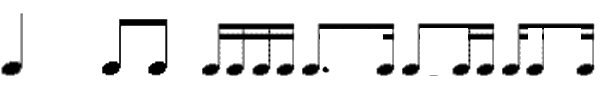
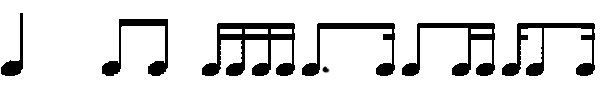
Memaso

diff --git a/proyecto/kuso.js b/proyecto/kuso.js
@@ -5,7 +5,7 @@ tempoToMs = function (t) {
 kuso = function(game){};
 kuso.prototype = {
   init:function() {
-    this.game.stage.backgroundColor = "#0000FF"; //set the background color
+    this.game.stage.backgroundColor = "#5555FF"; //set the background color
 
     this.metro_high = this.add.audio('metro_high');
     this.metro_low = this.add.audio('metro_low');
@@ -42,13 +42,13 @@ kuso.prototype = {
       if (this.count === 4) {
         this.count = 0;
       }
-      this.checkUntapped();
+      this.checkUntapped(1);
     },this);
     this.quarter.start();
 
     this.phrase = this.game.time.create(false);
     this.phrase.loop(tempoToMs(tempo) * 8, function(){
-      this.checkUntapped();
+      this.checkUntapped(0.2);
       this.createPattern();
     },this);
     this.phrase.start();
@@ -64,6 +64,11 @@ kuso.prototype = {
     this.back.events.onInputDown.add(function(){
       this.game.state.start('Tempo_select');
     }, this);
+//temporal lines
+    this.line1 = this.add.text(373, 190, 'l');
+    this.line1.scale.set(1, 3);
+    this.line2 = this.add.text(373, 290, 'l');
+    this.line2.scale.set(1, 3);
   },
 
   createPattern: function(){
@@ -100,7 +105,7 @@ kuso.prototype = {
     tapped = false;
     correct_note = false;
     this.current_pattern.forEach(function(item){
-      if (tap > item - tempoToMs(tempo) * 0.1 && tap < item + tempoToMs(tempo) * 0.2 && tapped === false) {
+      if (tap > item - tempoToMs(tempo) * 0.1 && tap < item + tempoToMs(tempo) * 0.25 && tapped === false) {
         this.tap_sound.play();
         correct_note = true;
         this.correct += 1;
@@ -121,7 +126,7 @@ kuso.prototype = {
     }, this);
     this.current_render = [];
     for (var i = 0; i < 8; i++) {
-      this.current_render[i] = this.add.image(100 + i * 75, 200, 'figures', this.current_render_pattern[i]);
+      this.current_render[i] = this.add.image(60 + i * 80, 200, 'figures', this.current_render_pattern[i]);
       this.current_render[i].scale.set(0.75);
     }
 
@@ -130,31 +135,21 @@ kuso.prototype = {
     }, this);
     this.next_render = [];
     for (var i = 0; i < 8; i++) {
-      this.next_render[i] = this.add.image(100 + i * 75, 300, 'figures', this.next_render_pattern[i]);
+      this.next_render[i] = this.add.image(60 + i * 80, 300, 'figures', this.next_render_pattern[i]);
       this.next_render[i].scale.set(0.75);
     }
   },
 
-  checkUntapped: function(){
+  checkUntapped: function(offset){
     t = tempoToMs(tempo) * 8 - this.phrase.duration;
     this.current_pattern.forEach(function(item){
-      if (t > item + tempoToMs(tempo) * 0.2) {
-        correct_note = true;
+      if (t > item && t < item + tempoToMs(tempo)) {
+//        this.current_pattern.splice(this.current_pattern.indexOf(item), 1);
+//        console.log(this.current_pattern);
         this.errors += 1;
-        this.current_pattern.splice(this.current_pattern.indexOf(item), 1);
       }
     },this);
     this.errors_text.text = 'Errors: ' + this.errors;    
     this.accurracy_text.text = 'Accurracy: ' + Math.round(this.correct / (this.correct + this.errors) * 100) + '%';
-  },
-
-  update: function(){
-
-  },
-  render: function(){
-/*    this.game.debug.text(this.quarter.duration, 30, 60);
-    this.game.debug.text(this.phrase.duration, 30, 90);
-    this.game.debug.text('Err' + this.errors, 30, 120);
-    this.game.debug.text('Corr' + this.correct, 30, 150);*/
   }
 };

diff --git a/proyecto/tempo_select.js b/proyecto/tempo_select.js
@@ -10,7 +10,7 @@ tempo_select.prototype = {
   },
 
   create: function(){
-    this.game.stage.backgroundColor = "#0000FF"; //set the background color
+    this.game.stage.backgroundColor = "#5555FF"; //set the background color
     this.tempo_indicator = this.add.text(150, 150, 'Tempo ' + tempo);
     this.game.input.onUp.add(function(){
       if (this.game.input.x > 360) {
